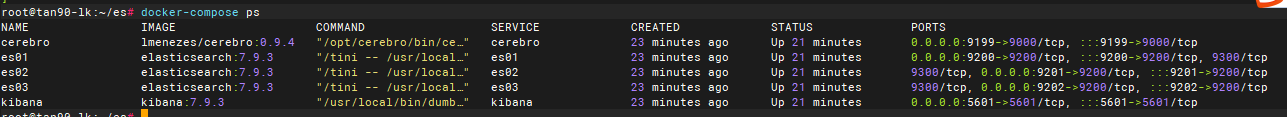
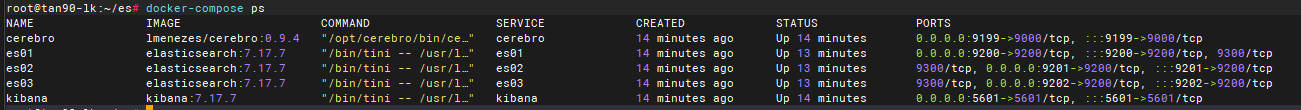
style:升级es版至7.17.7

diff --git a/doc/es/readme.md b/doc/es/readme.md
@@ -1,4 +1,4 @@
-# docker版es-7.17.7集群安装教程
+# docker版es集群安装教程
 ## 前置条件
 - 对elasticsearch有基础了解
 - 宿主机上安装docker，安装教程找官网或百度
@@ -10,7 +10,7 @@
 # --driver：驱动程序类型
 # --gateway：主子网的IPV4和IPV6的网关  可修改
 # --subnet：代表网段的CIDR格式的子网   可修改
-# el_net：自定义网络名称             
+# el_net：自定义网络名称                 
 docker network create --driver=bridge --gateway=172.18.0.1 --subnet=172.18.0.0/16 el_net
 ```
 #### 2、启动es集群
@@ -24,42 +24,28 @@ docker-compose ps
 ```
 ![img.png](img/img02.png)
 ```shell
-docker exec -it es01 /bin/bash
+# 验证集群状态
+curl localhost:9200
 ```
-![img.png](img/img05.png)
-```shell
-# 设置集群密码
-./bin/elasticsearch-setup-passwords interactive
-```
-![img06.png](img/img03.png)
-```shell
-# 验证集群状态  由 elastic:密码 base64得到ZWxhc3RpYzoxMjM0NTY=
-curl --request GET --url http://localhost:9201 --header 'Authorization: Basic ZWxhc3RpYzoxMjM0NTY='
-```
-![img07.png](img/img07.png)
+![img.png](img/img03.png)
 #### 3、安装ik分词器
 ```
-# github地址
 https://github.com/medcl/elasticsearch-analysis-ik
-支持分词器的拓展和停用词典
 ```
-
 - 1、将elasticsearch-analysis-ik-7.17.7.zip解压，文件夹名称为ik
 ```shell
 unzip elasticsearch-analysis-ik-7.17.7.zip -d ik
 ```
-- 2、将ik文件夹复制到三个es节点的plugins数据卷中,查询宿主机数据卷路径命令如下：
+- 2、将ik文件夹复制到三个es节点的plugins数据卷下,宿主机数据卷路径查询如下：
 ```shell
-docker volume inspect es_pluginsXX
+docker volume inspect es_plugins03
 ```
 ![img.png](img/img01.png)
-```shell
-cp -r ik /var/lib/docker/volumes/es_plugins03/_data
-```
 - 3、重启三个es节点
 ```
-docker-compose restart
+docker-compose restart es01 es02 es03
 ```
 - 4、使用kibana的Dev Tools工具验证ik分词器是否安装成功
-![img.png](img/img00.png)
+  ![img.png](img/img00.png)
 #### 4、恭喜安装成功
+- DSL常用语法
